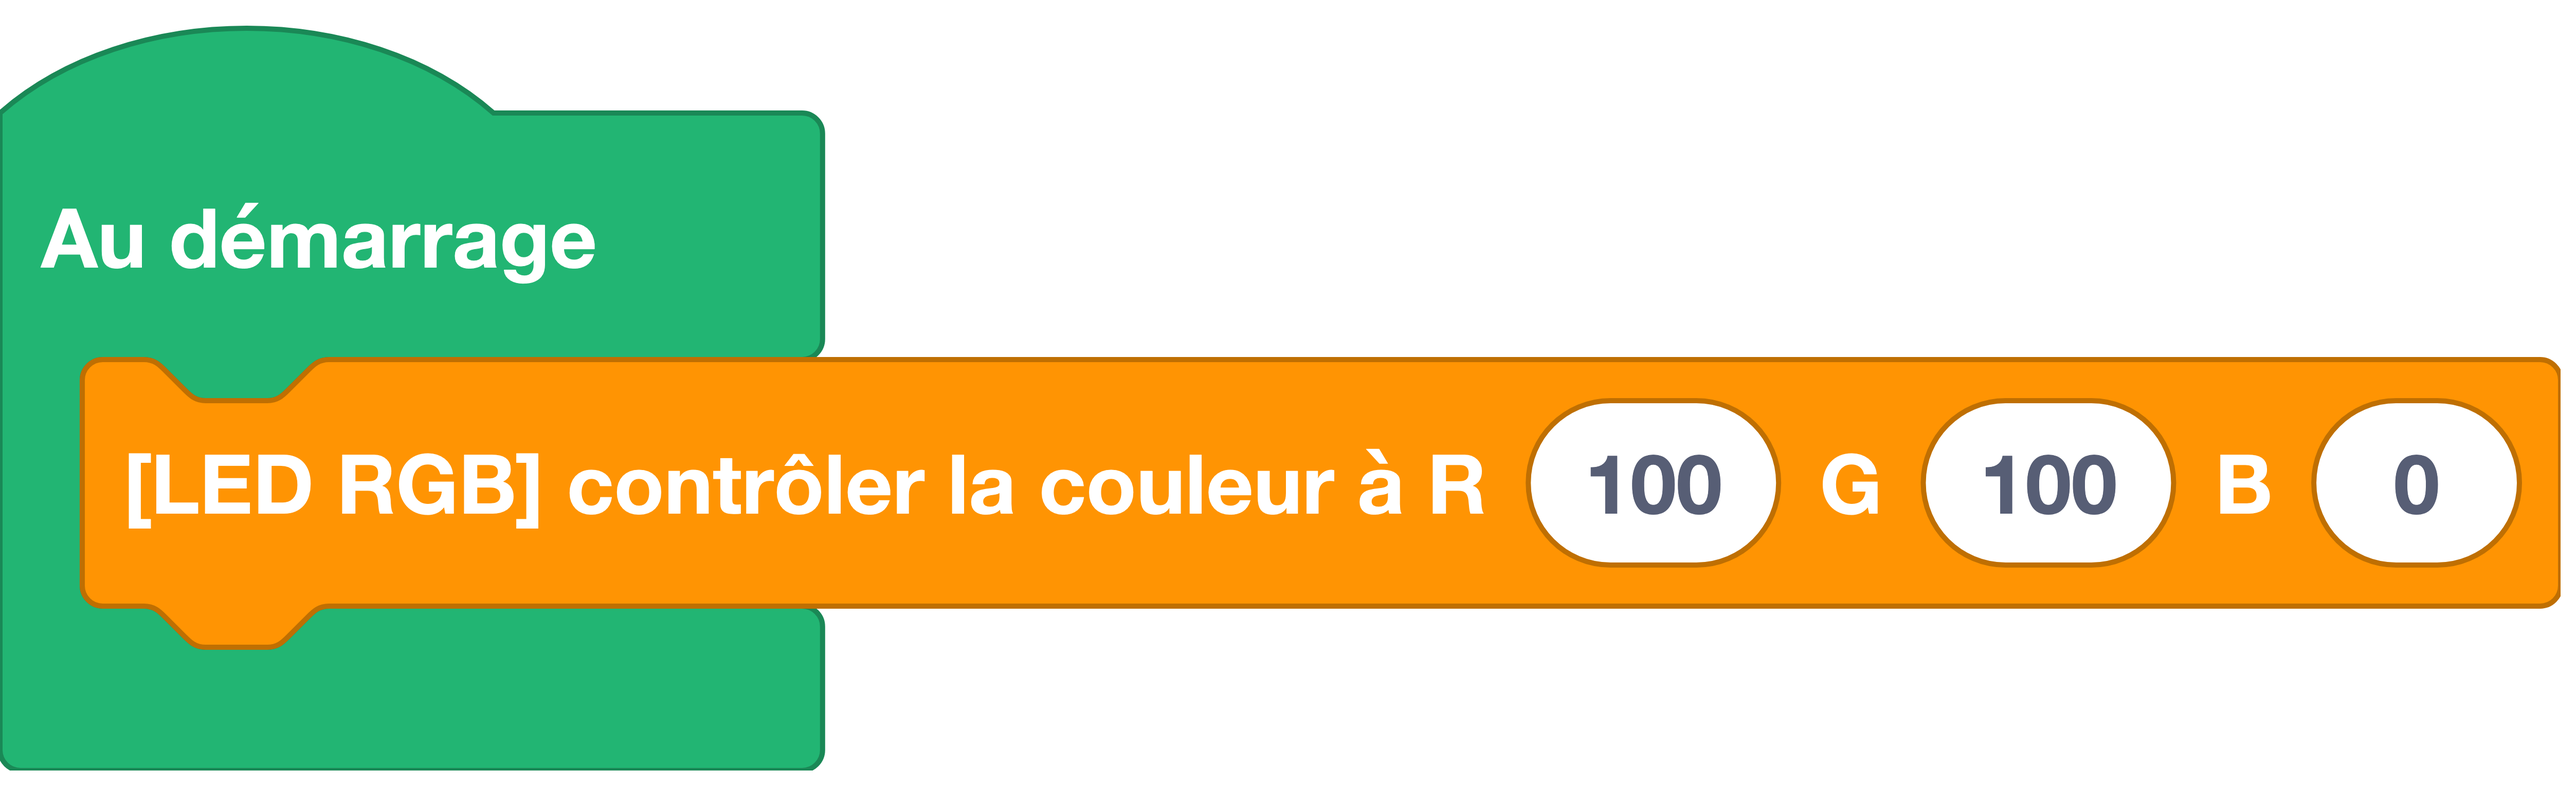
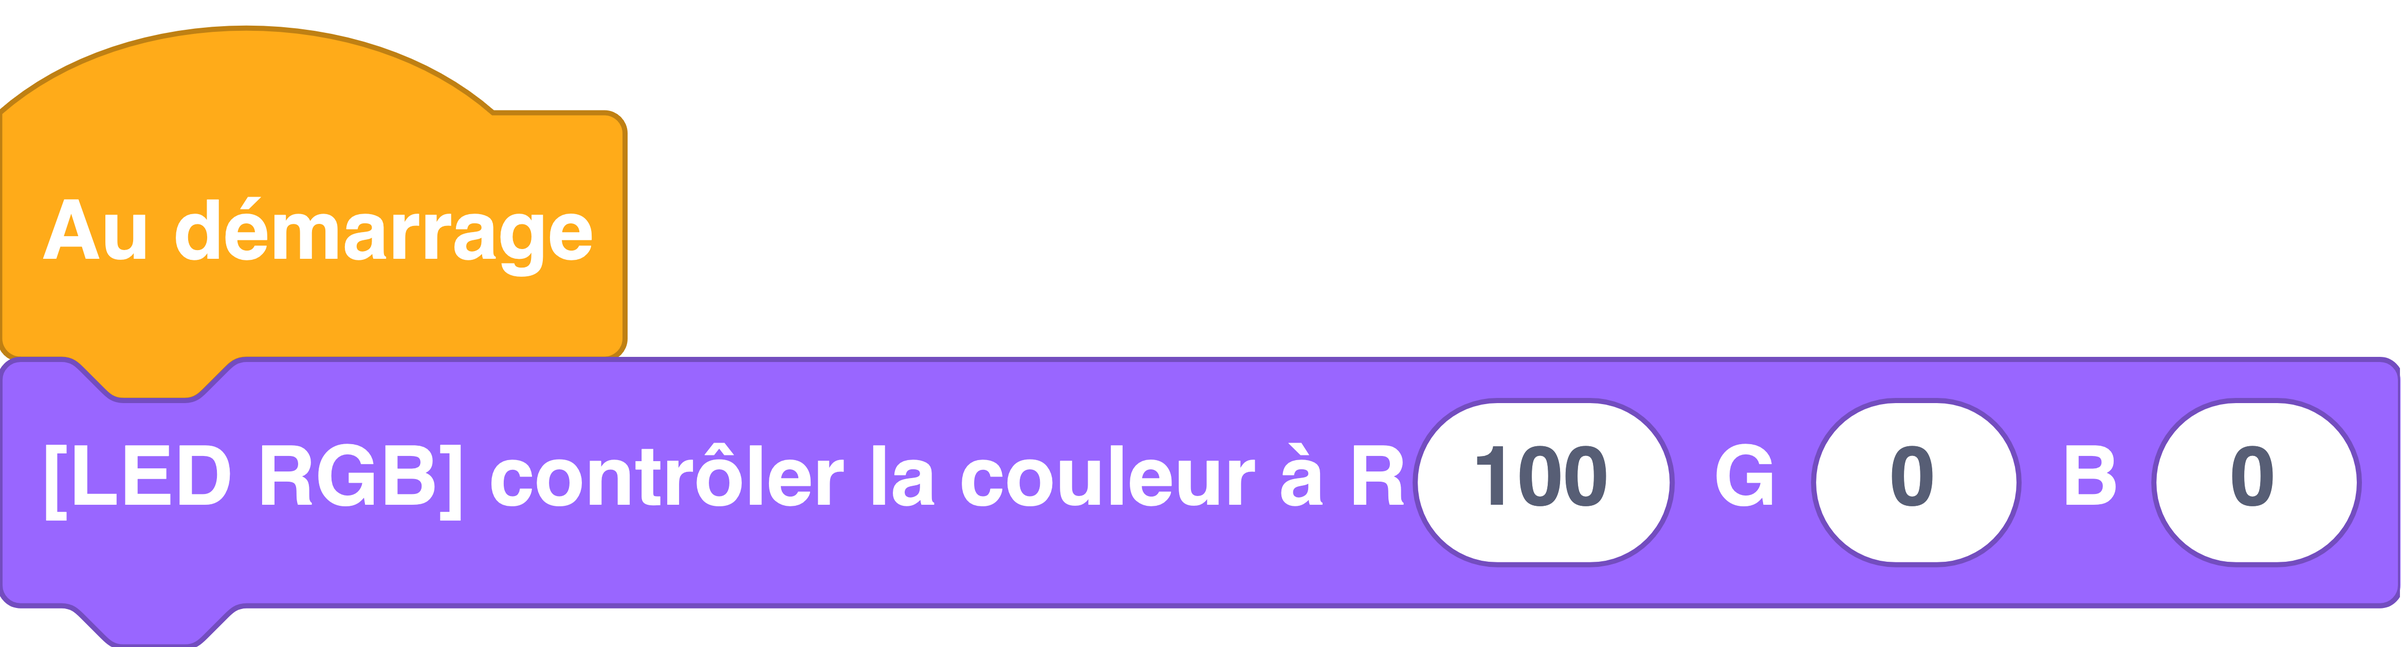
Aperçus d'écran Scratch partout !

diff --git a/docs/controle/executer_des_instructions_selon_une_condition.md b/docs/controle/executer_des_instructions_selon_une_condition.md
@@ -5,15 +5,15 @@ hide:
 
 # Exécuter des instructions si une condition est vraie ou non
 
-On peut controler le déroulement du programme selon des conditions.
+Permet d'exécuter des instructions si une condition est vraie.
 
-Dans l'exemple ci-dessous, nous allons allumer une LED RVB en rouge si le seuil de luminosité est supérieur à un certain seuil (125), sinon la LED RVB est allumée en vert.
+Dans l'exemple ci-dessous, nous allons allumer la LED RVB de la Galaxia en rouge si le seuil de luminosité est supérieur à un certain seuil (125), sinon la LED est allumée en vert.
 
 === ":material-puzzle: Exemple avec des blocs"
-    ![Bloc Si/Sinon](decisionnelle.png){: style="width:380px;"}
+    ![Bloc Si/Sinon](executer_des_instructions_selon_une_condition.png){: style="width:380px;"}
 
 	!!! info
-    	Le bloc `#!python if` ![Bloc if](if.png){: style="height:24px;"} peut être trouvé dans la catégorie de blocs [:fontawesome-solid-gear: Logique](#){: style="color: rgb(252,116,23); font-weight: bold;"}. Notez qu'une condition doit être fournie pour que ce bloc soit fonctionnel.
+    	Le bloc `#!python if` ![Bloc if](if.png){: style="height:24px;"} peut être trouvé dans la catégorie de blocs [:fontawesome-solid-code-branch: Contrôle](#){: style="color: rgb(255, 171, 25); font-weight: bold;"}. Notez qu'une condition issue de la catégorie de bloc [:fontawesome-solid-calculator: Opérateurs](#){: style="color: rgb(89, 192, 89); font-weight: bold;"} doit être fournie pour que ce bloc soit fonctionnel.
 
 === ":material-code-array: Exemple avec du code"
 
@@ -30,23 +30,20 @@ Dans l'exemple ci-dessous, nous allons allumer une LED RVB en rouge si le seuil 
 			led.set_colors(0, 255, 0)
 	```
 
-	**Si** la partie entre `#!python if` et les `#!python :` est évaluée comme vrai
-
-	**alors** les instructions sur les lignes indentées qui suivent dessous seront exécutées.
-
-	**Sinon** ce sont les instructions situées après le `#!python else:` qui le seront.
-
-	
-	Je rappelle que la tabulation fait partie de la structure dans python, que le bloc de code executé si le `#!python if` est vrai, comporte une tabulation par rapport au `#!python if` et que le `#!python else` ce retrouve tabulé au même niveau que le `#!python if` 	
-
-Si la partie entre `#!python if` et les `#!python :` est évaluée comme vrai alors les instructions indentées qui suivent les `#!python :` seront exécutées.	Sinon ce sont les instructions situées après le `#!python else:` qui le seront.
+	Si la partie entre `#!python if` et les `#!python :` est évaluée comme vrai alors les instructions indentées qui suivent les `#!python :` seront exécutées.	Sinon ce sont les instructions situées après le `#!python else:` qui le seront.
 
 
 ## Aller plus loin
+Pour se représenter le programme précédent, on peut s'aider d'un organigramme : 
 
-On peut s'aider d'un organigramme : 
-
-![mooc_ifelse](mooc.svg)
+``` mermaid
+graph TD
+  A[Au démarrage] --> B{Luminosité > 125 ?};
+  B -->|Vrai| C[Allumer la LED en rouge];
+  C --> B;
+  B -->|Faux| D[Allumer la LED en vert];
+  D --> B;
+```
 
 Si vous voulez en savoir plus sur les organigrammes, voici une chouette page [Wikipédia](https://fr.wikipedia.org/wiki/Organigramme_de_programmation).
 Dans l'exemple ci-dessus, nous utilisons les fonctions du langage MicroPython `#!python if` et `#!python else`. Pour en savoir plus, nous vous invitons à lire la [documentation MicroPython](https://www.micropython.fr/reference/02.mots_cles/if_elif_else/).

diff --git a/docs/controle/executer_des_instructions_selon_des_conditions.md b/docs/controle/executer_des_instructions_selon_des_conditions.md
@@ -1,22 +1,22 @@
+---
+hide:
+  - toc
+---
 
-## Exécuter des instructions selon des conditions
-
-On peut controler le déroulement du programme selon des conditions.
+Permet d'exécuter des instructions si une condition parmi plusieurs est vraie.
 
 Dans l'exemple ci-dessous, nous allons modifier l'état d'une LED RVB,
 
-- En Vert si le bouton A seul est appuyé.
+- En vert si le bouton A seul est appuyé.
 - En orange si le bouton B seul est appuyé.
 - En rouge si les boutons A et B sont tous les deux appuyés.
-- Eteinte si aucun des boutons est appuyé.
+- Éteinte si aucun des boutons est appuyé.
 
 === ":material-puzzle: Exemple avec des blocs"
     ![Bloc Si/Sinon](M_D_controle_B.png){: style="width:380px;"}
 
 	!!! info
-    	Le bloc "si" `#!python if` ![Bloc if](if.png){: style="height:24px;"} peut être trouvé dans la catégorie de blocs [:fontawesome-solid-gear: Contrôle](#){: style="color: rgb(252,116,23); font-weight: bold;"}.
-		
-		 Notez qu'une condition doit être fournie pour que ce bloc soit fonctionnel.
+    	Le bloc `#!python if` ![Bloc if](if.png){: style="height:24px;"} peut être trouvé dans la catégorie de blocs [:fontawesome-solid-code-branch: Contrôle](#){: style="color: rgb(255, 171, 25); font-weight: bold;"}. Notez qu'une condition issue de la catégorie de bloc [:fontawesome-solid-calculator: Opérateurs](#){: style="color: rgb(89, 192, 89); font-weight: bold;"} doit être fournie pour que ce bloc soit fonctionnel.
 
 
 === ":material-code-array: Exemple avec du code"

diff --git a/docs/apparence/led_rgb/led_rgb.md b/docs/apparence/led_rgb/led_rgb.md
@@ -3,7 +3,7 @@ hide:
   - toc
 ---
 
-# TODO : refaire cette fiche lorsque le simulateur est ok
+# Contrôler la LED RVB de la Galaxia
 Permet de régler l'intensité de la LED intégrée à la carte Galaxia, de 0 à 100 pour chacune des couleurs (rouge, vert, bleu).
 
 # Branchement
@@ -17,23 +17,12 @@ Permet de régler l'intensité de la LED intégrée à la carte Galaxia, de 0 à
 === ":material-code-array: Exemple avec du code"
 
     ```python
-    # On importe les modules machine et utime
-    from machine import * 
-    import utime
-
-    # Déclaration d'une broche en sortie sur la broche 2
-    # à l'aide du constructeur Pin()
-    led = Pin(2, Pin.OUT)
-
-    # On allume la LED
-    led.on()
-
-    # On attend 1 seconde
-    utime.sleep(1)
-
-    # On éteint la LED
-    led.off()
+    # On importe le sous-module appelé led depuis le module thingz
+    from thingz import led
+    
+    # On utilise la fonction set_colors pour allumer la LED RGB en rouge
+    led.set_colors(100, 0, 0)
     ```
 
 ## Aller plus loin
-Dans l'exemple ci-dessus, nous utilisons la classe `#!python Pin` qui permet de manipuler les broches E/S (Entrée/Sortie) de la carte électronique. Pour en savoir plus sur cette classe, nous vous invitons à lire la [documentation MicroPython](https://www.micropyt
+Dans l'exemple ci-dessus, nous utilisons le module `#!python thingz` qui est décrit en détails [ici](../../thingz/thingz_led.md).
